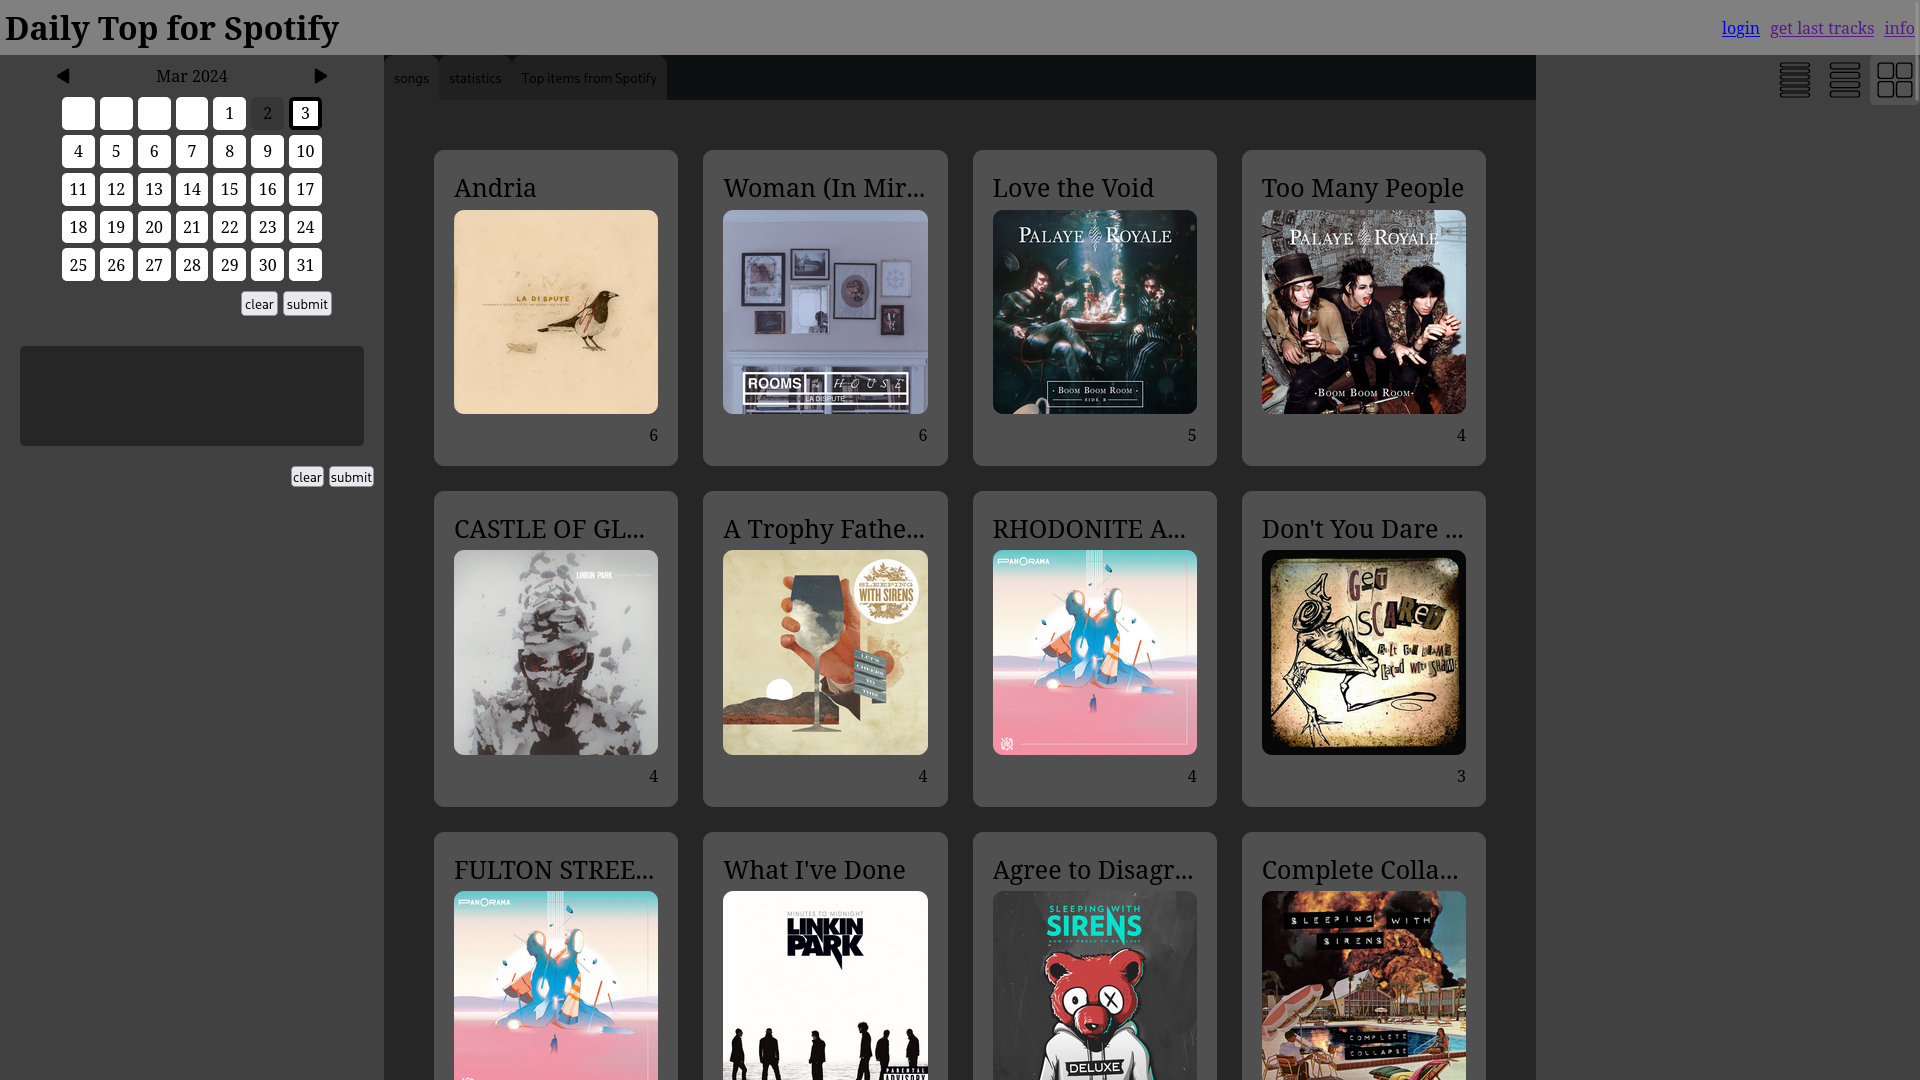
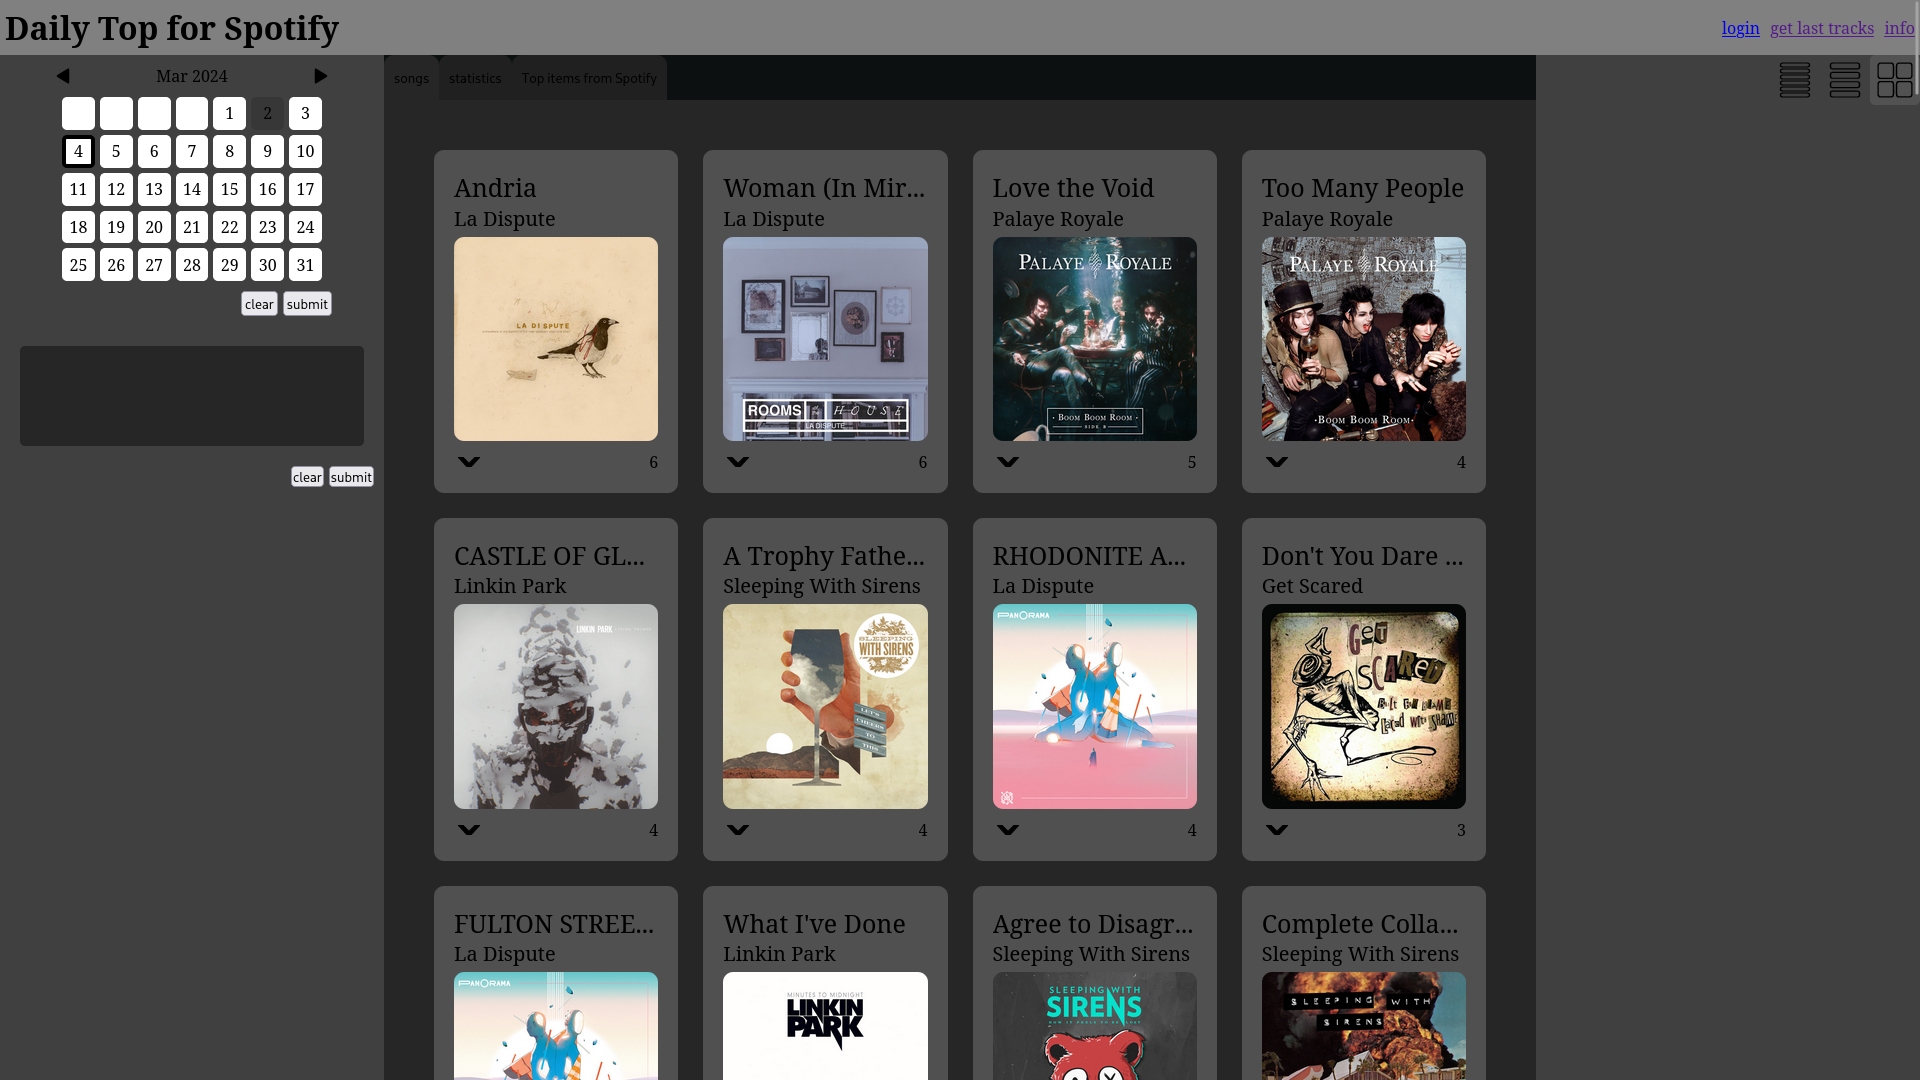
timers + bug fixes

diff --git a/Html/index.js b/Html/index.js
@@ -30,18 +30,19 @@ for(let i = windows.length - 1; i >= 0; i--){
     }, true);
 }
 
-let prevPreview = null;
+let prevPreview = null, prevPreviewStyle = null;
 const previewStyles = ["songLineSmallStyle", "songLineStyle", "songBoxStyle"];
 const previewStylesButtons = [".toggleSongSmallLineStyle", ".toggleSongLineStyle", ".toggleSongBoxStyle"].map((buttonClassName, i) => {
     const button = document.querySelector(buttonClassName);
     button.addEventListener("click", () => {
         if(prevPreview){
             prevPreview.classList.remove("active");
-            songsHolder.className = "songsHolder";
+            songsHolder.classList.remove(prevPreviewStyle);
         }
 
         songsHolder.classList.add(previewStyles[i]);
         button.classList.add("active");
+        prevPreviewStyle = previewStyles[i];
         prevPreview = button;
     });
 
@@ -76,7 +77,7 @@ HTMLElement.prototype.appendChildren = function(...args){
     }
 };
 
-function createEntries(songs, songsInfo){
+function createEntries(songs, songsInfo, artists){
     // console.log(songs);
     // console.log(songsInfo);
 
@@ -87,14 +88,14 @@ function createEntries(songs, songsInfo){
         const songId = song.songId;
         const songInfo = songsInfo[songId];
         const songElement = createElement(`<div class="song"></div>`);
-        const artists = (songInfo) ? (songInfo.artists.map(artist => artist.name)).join(", ") : "";
+        const artistsStr = (songInfo) ? (songInfo.artists.map(artistId => artists[artistId].name)).join(", ") : "";
         const image = (songInfo) ? songInfo.image : null;
         songElement.innerHTML = `
             <div class="firstLine">
                 <img class="image" src="${image}" alt="${song.name}">
                 <div class="songContent">
                     <div class="songName">${song.name}</div>
-                    <div class="artistNames">${artists}</div>
+                    <div class="artistNames">${artistsStr}</div>
                     <div class="songDuration">duration: ${toMinutes(songInfo.duration / 1000)}</div>
                     <div class="buttons">
                         <button class="selectSong">select</button>
@@ -332,7 +333,7 @@ function createSongs(songs, dates){
 
         const objArtistIds = {"artistId": Array.from(artistIdSet)};
         requestInfo("/api/artistInfo", objArtistIds).then(artists => {
-            createEntries(songs, songsInfo);
+            createEntries(songs, songsInfo, artists);
             const totalDuration = createHistogram(songs, songsInfo, dates);
             createSongTable(songs, songsInfo, totalDuration);
             createArtistTable(songs, songsInfo, artists);

diff --git a/server.js b/server.js
@@ -278,10 +278,10 @@ class Artist{
 }
 
 class Song{
-    constructor(track){
+    constructor(track, playedAt){
         this.songId = track.id;
         this.name = track.name;
-        this.playedAt = new Date(track.played_at);
+        this.playedAt = new Date(playedAt);
         this.dateStamp = func.dateStamp(this.playedAt);
     }
 }
@@ -307,10 +307,6 @@ function addSongs(data, callback, ...args){
     );
 
     const jsonResponse = JSON.parse(data);
-    // if(Object.keys(jsonResponse.items).length <= 0){
-    //     func.log(`empty object with items`);
-    //     return;
-    // }
     
     func.log(`total: ${jsonResponse.total} next: ${jsonResponse.next}`);
 
@@ -326,12 +322,13 @@ function addSongs(data, callback, ...args){
 
     let durationSum = 0, numberOfSongs = 0;
     Object.keys(jsonResponse.items).forEach(itemKey => {
-        const track = jsonResponse.items[itemKey].track;
+        const item = jsonResponse.items[itemKey];
+        const track = item.track;
         const songId = track.id;
         
         songsMap.set(songId, itemKey);
 
-        toAdd.push(new Song(track));
+        toAdd.push(new Song(track, item.played_at));
 
         // console.log(track.artists);
         // track.artists.forEach(artist => {
@@ -401,6 +398,7 @@ function addSongs(data, callback, ...args){
     //     }
     // });
 
+    console.log(toAdd);
     history.insertMany(toAdd).then(result => {
         if(result.acknowledged == true){
             func.log(`retrieved ${toAdd.length} tracks`);
@@ -624,11 +622,6 @@ function getAndUpdate(collection, array, queryName, onSuccess, onError, callback
     
         if(set.size != 0){
             const array = Array.from(set);
-            console.log(`not found ${set.size} ${array.join(",")}`);
-            console.log("result: ");
-            console.log(result);
-            console.log("array: ");
-            console.log(array);
             onSuccess(array, result, callback, onError);
         }
         else{

diff --git a/Html/timers.html b/Html/timers.html
@@ -1,0 +1,38 @@
+<!DOCTYPE html>
+<html>
+    <head>
+        <title>Daily Top for Spotify</title>
+        <meta charset="UTF-8">
+        <link rel="icon" href="/Images/icon.svg" type="image/x-icon">
+        <meta name="viewport" content="width=device-width, height=device-height, initial-scale=1.0, minimum-scale=1.0">
+        <link rel="stylesheet" href="song.css">
+        <link rel="stylesheet" href="daySelector.css">
+        <link rel="stylesheet" href="histogram.css">
+        <link rel="stylesheet" href="style.css">
+        <script defer type="module" src="timers.js"></script>
+    </head>
+    <body>
+        <div>
+            <div class="nextAccessToken"></div>
+            <div class="nextRequest"></div>
+        </div>
+
+        <style>
+            body > div{
+                margin: auto;
+                display: flex;
+                flex-direction: column;
+                justify-content: center;
+                height: 100%;
+            }
+
+            body > div > div{
+                color: white;
+                width: 100%;
+                white-space: nowrap;
+                font-size: 8vw;
+                text-align: center;
+            }
+        </style>
+    </body>
+</html>

diff --git a/Html/timers.js b/Html/timers.js
@@ -1,0 +1,34 @@
+import * as frontFunc from "./frontFunc.js";
+
+Object.assign(globalThis, frontFunc);
+
+const nextAccessTokenEl = document.querySelector(".nextAccessToken");
+const nextRequestEl = document.querySelector(".nextRequest");
+
+function addTimer(text, date, parent){
+    parent.innerText = "null";
+
+    if(!date){
+        return;
+    }
+    
+    setInterval(() => {
+        const time = new Date(date);
+        time.setMilliseconds(0);
+        const diff = time.getTime() - Date.now();
+        if(diff < 0){
+            window.location.reload(); 
+        }
+
+        parent.innerText = `${text}: ${getFormatedTime(diff)}`;
+    }, 500);
+}
+
+fetch("/api/info").then(r =>  {
+    r.json().then(j => {
+        const nextAccessToken = j.nextAccessToken[1];
+        const nextRequest = (j.nextRequest) ? j.nextRequest[1] : null;
+        addTimer("next Access Token", nextAccessToken, nextAccessTokenEl);
+        addTimer("next request", nextRequest, nextRequestEl);
+    })
+})
